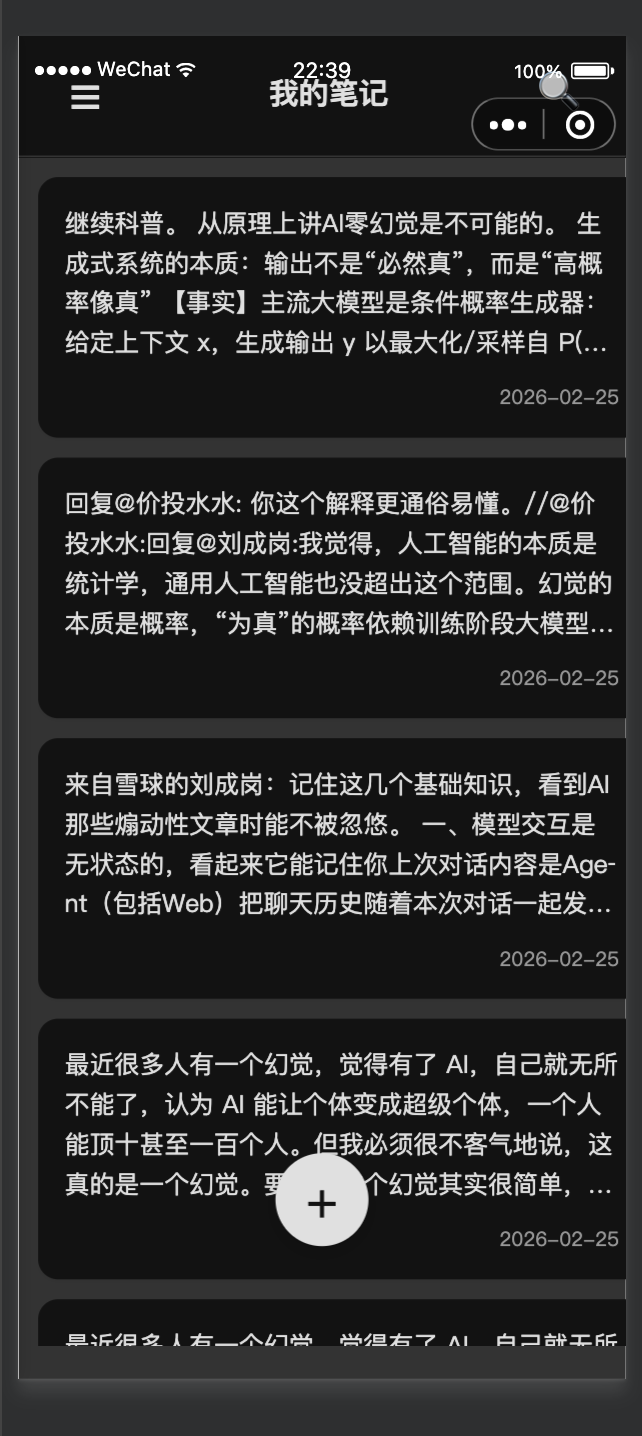
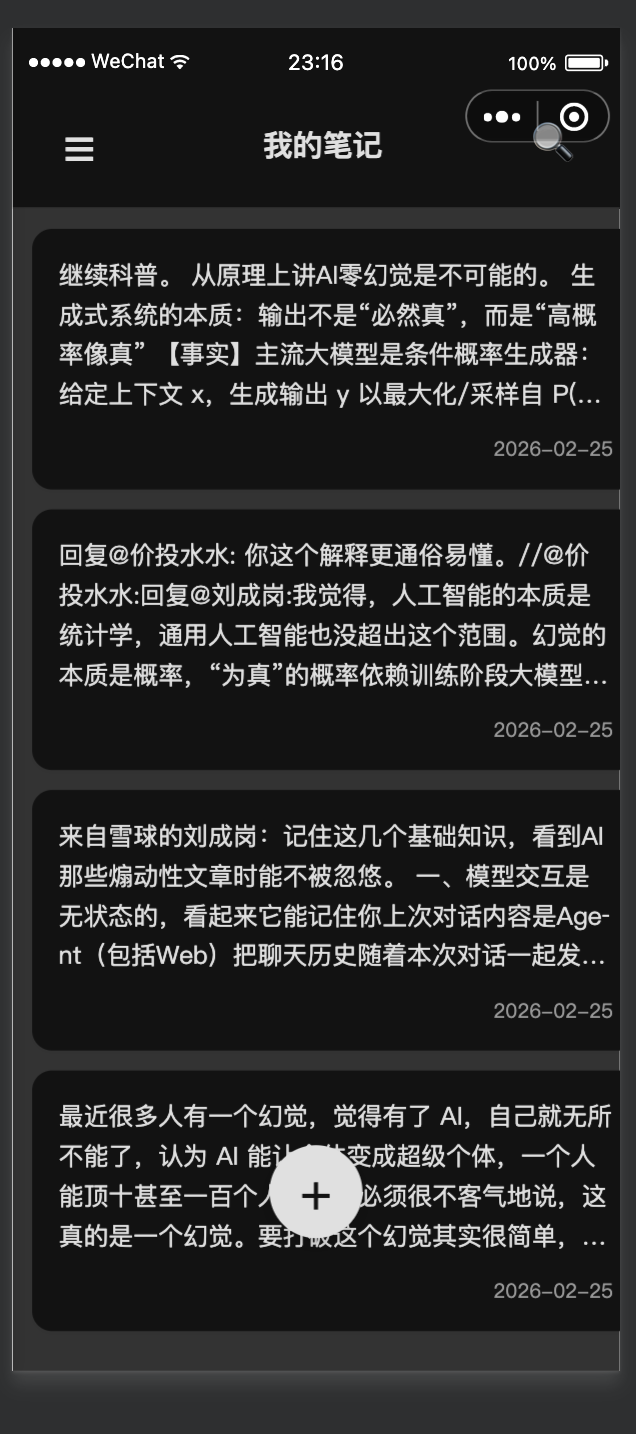
feat: 动态布局 - 搜索按钮紧邻胶囊按钮左侧

diff --git a/miniprogram/pages/index/index.js b/miniprogram/pages/index/index.js
@@ -18,14 +18,34 @@ Page({
     searchFocus: false,
     statusBarHeight: 0,
     themeIcon: '🌓',
-    themeClass: ''
+    themeClass: '',
+    menuButtonRight: 0,
+    navbarPaddingRight: 16
   },
 
   onLoad: function() {
     const systemInfo = wx.getSystemInfoSync();
+    
+    let menuButtonRight = 0;
+    let navbarPaddingRight = 16;
+    
+    try {
+      const menuButton = wx.getMenuButtonBoundingClientRect();
+      if (menuButton && menuButton.right) {
+        const screenWidth = systemInfo.screenWidth;
+        menuButtonRight = screenWidth - menuButton.right;
+        navbarPaddingRight = menuButton.width + menuButtonRight + 8;
+        console.log('胶囊按钮位置:', menuButton, '屏幕宽度:', screenWidth, 'padding-right:', navbarPaddingRight);
+      }
+    } catch (e) {
+      console.warn('获取胶囊按钮位置失败:', e);
+    }
+    
     this.setData({ 
       statusBarHeight: systemInfo.statusBarHeight,
-      themeClass: app.getThemeClass()
+      themeClass: app.getThemeClass(),
+      menuButtonRight,
+      navbarPaddingRight
     });
     this.checkAuth();
     this.generateHeatmapData();
